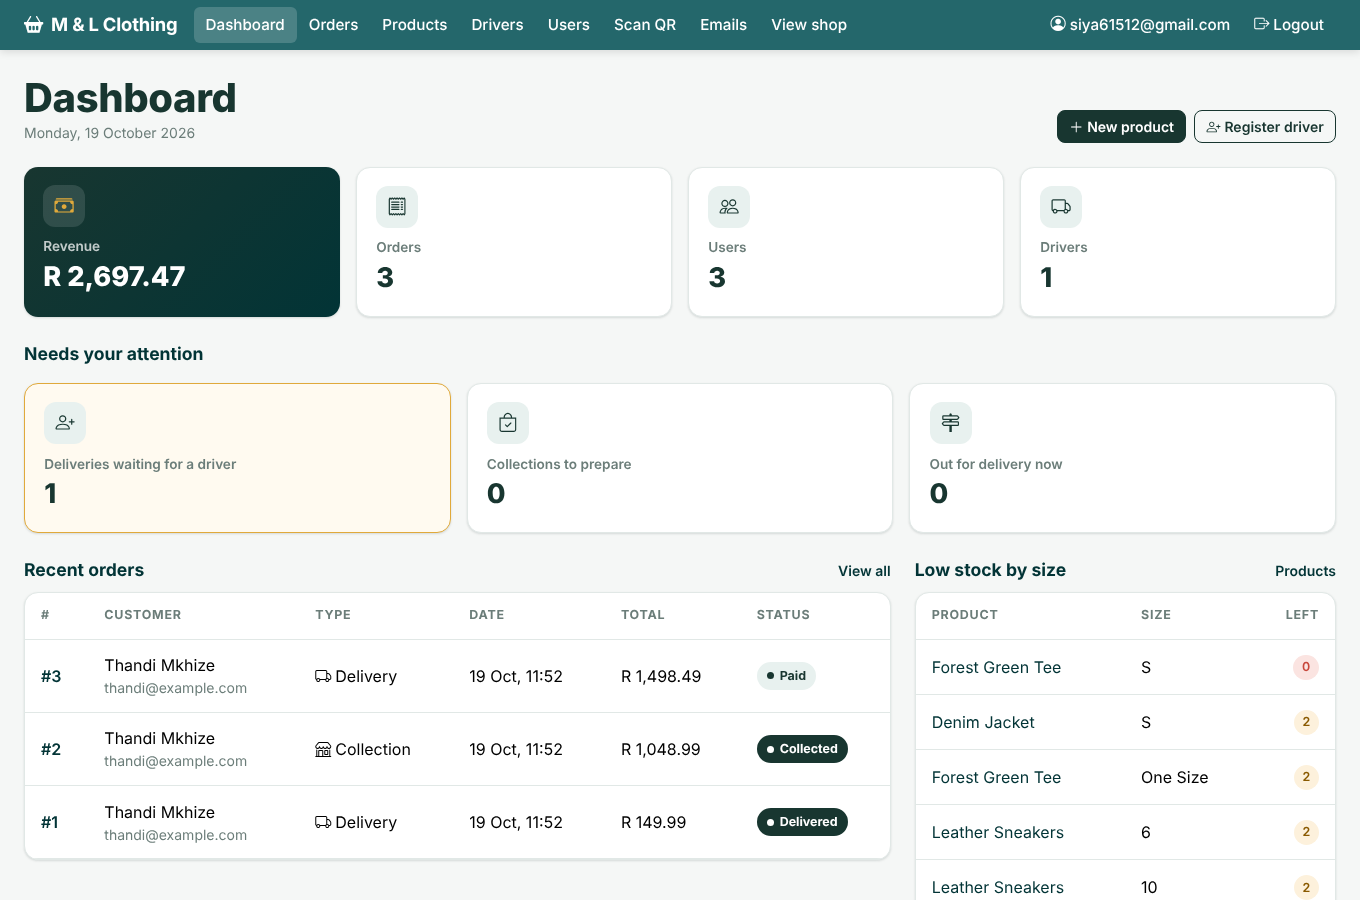
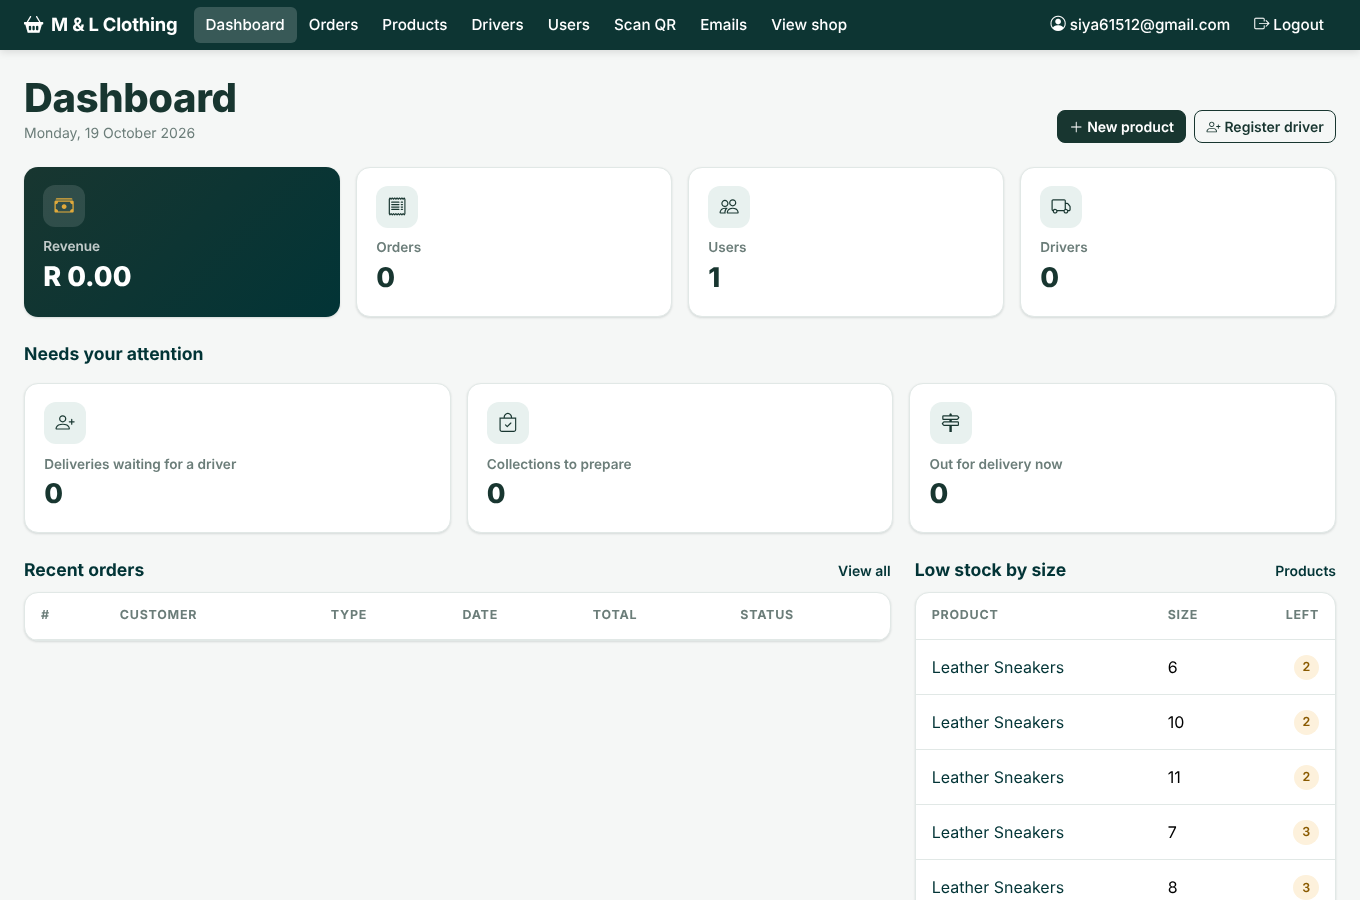
Admin top bar colour #0D3533
Claude-Session: https://claude.ai/code/session_01XcsCySjZktNTvCn4XyX2b9

diff --git a/src/ClothingStore/wwwroot/css/site.css b/src/ClothingStore/wwwroot/css/site.css
@@ -250,7 +250,7 @@ a, .btn-link { text-decoration: none; }
     font-weight: 600; padding: .2rem .6rem; border-radius: 99px; }
 
 /* ----- Admin top menu bar ----- */
-.admin-nav { background: #24676b; padding-top: .35rem; padding-bottom: .35rem; box-shadow: 0 2px 8px rgba(0,0,0,.12); }
+.admin-nav { background: #0d3533; padding-top: .35rem; padding-bottom: .35rem; box-shadow: 0 2px 8px rgba(0,0,0,.12); }
 .admin-nav .navbar-brand { color: #fff; font-weight: 700; font-size: 1.15rem; }
 .admin-nav .navbar-brand i { font-size: 1.2rem; }
 .admin-nav .nav-link { color: #fff; font-weight: 500; font-size: .95rem; padding: .4rem .75rem !important; border-radius: 6px; }
